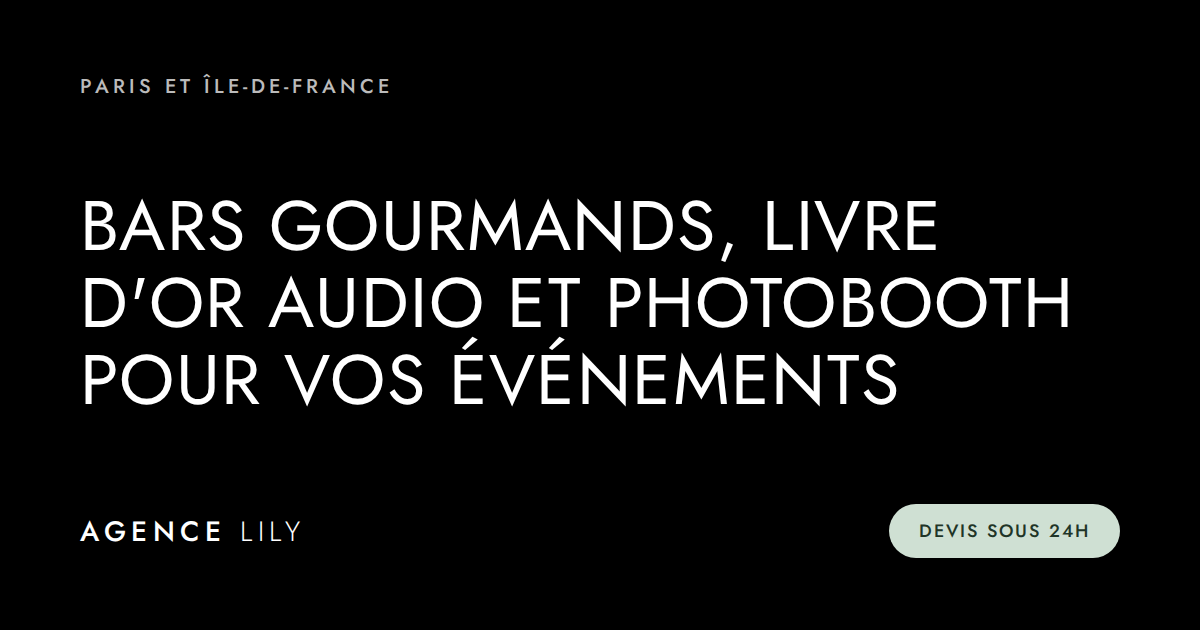
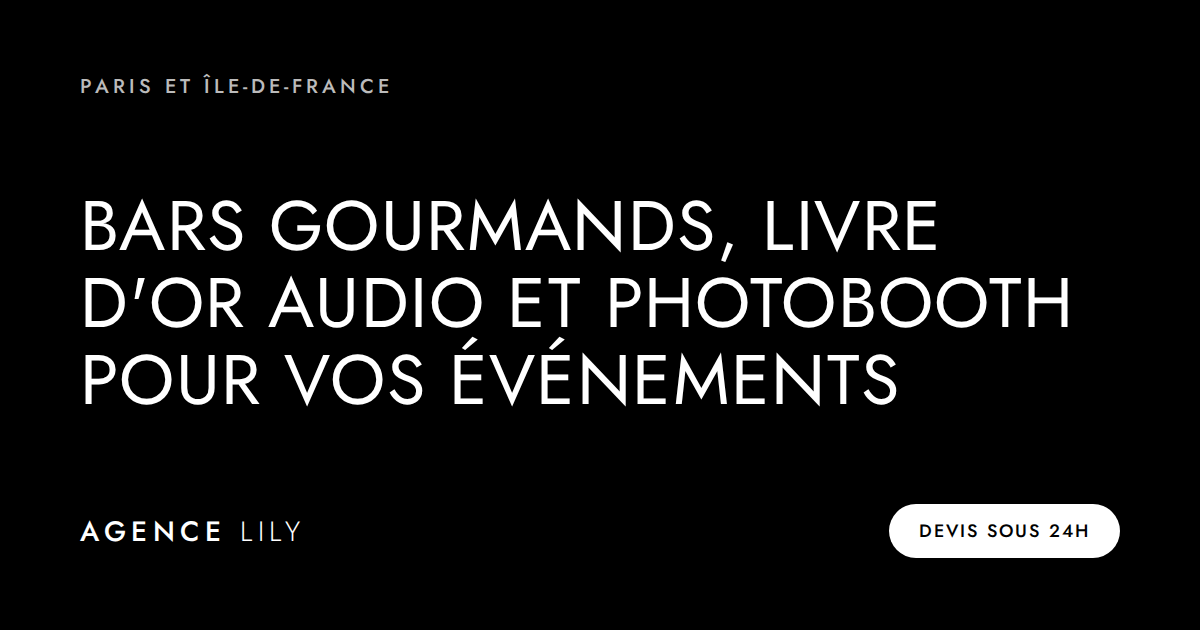
Design noir et blanc, hero mobile, carrousels mobiles et section arche lumineuse
- Suppression du vert sauge : boutons noirs pleins, blancs sur fond sombre
- Hero mobile plus court, image verticale dédiée (imageMobile), prix et bouton en premier
- Formules, étapes et exemples en carrousel horizontal sur mobile, tuiles en 2 x 2
- Section « Notre signature » : téléphone vintage dans son arche lumineuse
- Image de partage régénérée, DESIGN.md mis à jour

Claude-Session: https://claude.ai/code/session_01TGQ6vujkog42Ue361diYv1

Changed region(s): [[0.74, 0.7841, 0.9558, 0.9048]]

diff --git a/src/assets/style.css b/src/assets/style.css
@@ -6,8 +6,6 @@
   --ink: #111111;
   --muted: #6e6e6a;
   --black: #000000;
-  --sage: #cfe0d3;
-  --sage-ink: #1f3527;
   --font: "Jost", "Futura", "Century Gothic", system-ui, sans-serif;
   --s1: 4px; --s2: 8px; --s3: 12px; --s4: 16px; --s5: 24px; --s6: 32px; --s7: 48px; --s8: 72px; --s9: 112px;
   --wrap: 1200px;
@@ -42,7 +40,8 @@ h3 { font-size: 15px; font-weight: 500; letter-spacing: 0.06em; }
 /* Boutons */
 .btn { display: inline-flex; align-items: center; justify-content: center; gap: 8px; padding: 12px 24px; border-radius: var(--pill); background: var(--ink); color: var(--white); border: 1px solid var(--ink); font-family: var(--font); font-size: 12px; font-weight: 500; letter-spacing: .1em; text-transform: uppercase; text-decoration: none; cursor: pointer; transition: opacity .2s; white-space: nowrap; }
 .btn:hover { opacity: .8; }
-.btn.sage { background: var(--sage); color: var(--sage-ink); border-color: var(--sage); }
+/* Action principale : noir plein, plus grand. Sur fond sombre (header, pack, bandeaux), blanc plein. */
+.btn.primary { background: var(--black); color: var(--white); border-color: var(--black); padding: 14px 28px; font-weight: 600; }
 .btn.ghost { background: var(--white); color: var(--ink); border-color: var(--line); }
 .btn.light { background: var(--white); color: var(--ink); border-color: var(--white); }
 .btn.small { padding: 9px 18px; font-size: 11px; }
@@ -56,7 +55,7 @@ h3 { font-size: 15px; font-weight: 500; letter-spacing: 0.06em; }
 .nav { display: flex; align-items: center; gap: var(--s5); }
 .nav a { text-decoration: none; font-size: 11px; font-weight: 500; letter-spacing: .12em; text-transform: uppercase; color: rgba(255,255,255,.75); }
 .nav a:hover, .nav a[aria-current="page"] { color: var(--white); }
-.nav .btn { color: var(--sage-ink); background: var(--sage); border-color: var(--sage); }
+.nav .btn { color: var(--black); background: var(--white); border-color: var(--white); }
 .burger { display: none; }
 @media (max-width: 960px) {
   .burger { display: block; }
@@ -74,7 +73,15 @@ h3 { font-size: 15px; font-weight: 500; letter-spacing: 0.06em; }
 .hero-full .wrap { width: 100%; padding-bottom: var(--s7); }
 .hero-full .eyebrow { color: rgba(255,255,255,.8); }
 .hero-full h1 { margin: 0; max-width: 900px; }
-@media (max-width: 700px) { .hero-full { min-height: 72vh; } }
+@media (max-width: 700px) {
+  .hero-full { min-height: 58vh; }
+  .hero-full h1 { font-size: 30px; }
+  .hero-full .wrap { padding-bottom: var(--s6); }
+  /* Mobile : prix et bouton d'abord, texte ensuite */
+  .intro-band { padding: var(--s6) 0; }
+  .intro-aside { order: -1; }
+}
+.hero-full picture { position: absolute; inset: 0; z-index: -2; }
 .intro-band { background: var(--surface); padding: var(--s7) 0; }
 .intro-band .wrap { display: grid; grid-template-columns: 1.4fr 1fr; gap: var(--s7); align-items: center; }
 .intro-band .lede { margin: 0; }
@@ -169,7 +176,7 @@ a.card:hover .ph img { transform: scale(1.03); }
 .formules { display: grid; grid-template-columns: repeat(auto-fit, minmax(260px, 1fr)); gap: var(--s5); }
 .formule { background: var(--white); padding: var(--s5) var(--s5) var(--s6); position: relative; display: flex; flex-direction: column; }
 .formule.pop { outline: 1px solid var(--ink); outline-offset: -1px; }
-.formule .badge { position: absolute; top: var(--s4); right: var(--s4); z-index: 2; background: var(--sage); color: var(--sage-ink); font-size: 10px; font-weight: 500; letter-spacing: .12em; text-transform: uppercase; padding: 5px 12px; border-radius: var(--pill); }
+.formule .badge { position: absolute; top: var(--s4); right: var(--s4); z-index: 2; background: var(--black); color: var(--white); font-size: 10px; font-weight: 500; letter-spacing: .12em; text-transform: uppercase; padding: 5px 12px; border-radius: var(--pill); }
 .formule .amount { font-size: 34px; font-weight: 300; margin: var(--s2) 0 var(--s5); }
 .formule-visual { margin: calc(-1 * var(--s5)) calc(-1 * var(--s5)) var(--s5); }
 .formule-visual .ph { aspect-ratio: 1 / 1; }
@@ -184,7 +191,7 @@ a.card:hover .ph img { transform: scale(1.03); }
 .pack { background: var(--black); color: var(--white); padding: var(--s7); display: grid; grid-template-columns: 1.4fr 1fr; gap: var(--s6); align-items: center; }
 .pack h2 { color: var(--white); }
 .pack .eyebrow, .pack p { color: rgba(255,255,255,.7); }
-.pack .btn { background: var(--sage); color: var(--sage-ink); border-color: var(--sage); }
+.pack .btn, .quote-band .btn { background: var(--white); color: var(--black); border-color: var(--white); }
 .pack .amount { font-size: 44px; font-weight: 300; }
 .pack s { color: rgba(255,255,255,.5); font-size: 22px; margin-right: 12px; }
 @media (max-width: 760px) { .pack { grid-template-columns: 1fr; padding: var(--s6) var(--s5); } }
@@ -244,7 +251,7 @@ a.card:hover .ph img { transform: scale(1.03); }
 @media (max-width: 760px) {
   .contact-bar { position: fixed; left: 0; right: 0; bottom: 0; z-index: 60; display: flex; gap: var(--s2); padding: 10px 12px calc(10px + env(safe-area-inset-bottom)); background: var(--black); }
   .cb-btn { flex: 1; text-align: center; padding: 12px 8px; border-radius: var(--pill); border: 1px solid rgba(255,255,255,.35); color: var(--white); font-size: 11px; font-weight: 500; letter-spacing: .1em; text-transform: uppercase; text-decoration: none; }
-  .cb-btn.cb-main { background: var(--sage); color: var(--sage-ink); border-color: var(--sage); }
+  .cb-btn.cb-main { background: var(--white); color: var(--black); border-color: var(--white); font-weight: 600; }
   body { padding-bottom: 72px; }
 }
 .wa-float { position: fixed; right: 20px; bottom: 20px; z-index: 60; width: 54px; height: 54px; border-radius: 50%; display: grid; place-items: center; background: var(--black); color: var(--white); }
@@ -292,3 +299,28 @@ a.card:hover .ph img { transform: scale(1.03); }
 .prose th { font-size: 11px; text-transform: uppercase; letter-spacing: .1em; color: var(--muted); font-weight: 500; }
 .prose blockquote { margin: var(--s5) 0; padding: var(--s5); background: var(--surface); }
 .section:not(.alt) .formule { background: var(--surface); }
+
+/* Carrousel mobile : une grille devient un défilement horizontal */
+@media (max-width: 700px) {
+  .m-rail, .formules { display: grid; grid-auto-flow: column; grid-template-columns: none; grid-auto-columns: 84%; gap: var(--s4); overflow-x: auto; scroll-snap-type: x mandatory; padding-bottom: var(--s3); margin-right: -20px; padding-right: 20px; }
+  .m-rail > *, .formules > * { scroll-snap-align: start; }
+  .formule-visual .ph { aspect-ratio: 3 / 2; }
+  .steps.m-rail { grid-auto-columns: 72%; }
+}
+.rail-hint { display: none; font-size: 11px; letter-spacing: .12em; text-transform: uppercase; color: var(--muted); margin-top: var(--s2); }
+@media (max-width: 700px) { .rail-hint { display: block; } }
+
+/* Section produit mise en avant (totem) */
+.feature.feature-dark { background: var(--black); color: var(--white); }
+.feature-dark .eyebrow, .feature-dark p { color: rgba(255,255,255,.75); }
+.feature-dark h2 { color: var(--white); }
+.feature-dark .check li::before { background: var(--white); }
+.feature-dark .btn { background: var(--white); color: var(--black); border-color: var(--white); }
+.feature .ph.tall { aspect-ratio: 4 / 5; min-height: 0; }
+
+/* Tuiles en 2 x 2 sur mobile (au lieu d'être empilées) */
+@media (max-width: 700px) {
+  .tiles { grid-template-columns: 1fr 1fr; gap: var(--s3); }
+  .tile, .tile:first-child { grid-column: auto; aspect-ratio: 1 / 1; }
+  .tile-title { font-size: 16px; padding: 0 var(--s3) var(--s3); }
+}

diff --git a/DESIGN.md b/DESIGN.md
@@ -9,7 +9,7 @@ Toutes les valeurs vivent dans `src/assets/style.css` (bloc `:root`). Ne jamais 
 2. **Angles droits partout**, sauf les boutons et les pastilles, toujours en pilule.
 3. **Capitales pour les titres**, bas de casse pour le texte courant.
 4. **Pas d'ombres.** La hiérarchie se fait par les fonds (blanc / gris clair / noir) et l'espace.
-5. **Une seule couleur d'accent**, le sauge, réservée à l'action principale d'une section (demande de devis).
+5. **Noir et blanc uniquement.** Aucune couleur d'accent : la hiérarchie vient du contraste, de la taille et de l'espace. L'action principale est un bouton noir plein (blanc plein sur fond sombre).
 6. **Les prix restent visibles** : c'est la différence avec un palace. Luxe accessible, pas luxe inaccessible.
 
 ## 2. Couleurs
@@ -22,8 +22,6 @@ Toutes les valeurs vivent dans `src/assets/style.css` (bloc `:root`). Ne jamais 
 | `--ink` | `#111111` | Texte principal, boutons principaux |
 | `--muted` | `#6e6e6a` | Texte secondaire |
 | `--black` | `#000000` | Header, footer, bandeaux sombres |
-| `--sage` | `#cfe0d3` | Bouton d'action principale (devis) |
-| `--sage-ink` | `#1f3527` | Texte sur fond sauge |
 
 ## 3. Typographie
 Une seule famille : **Jost** (géométrique, auto-hébergée dans `src/assets/fonts/`).
@@ -53,7 +51,9 @@ Une seule famille : **Jost** (géométrique, auto-hébergée dans `src/assets/fo
 
 ## 6. Composants
 
-**Hero plein cadre** (`partials/hero-full.njk`) : photo pleine largeur, dégradé sombre en bas, H1 en capitales blanches en bas à gauche. Juste dessous, un **bandeau d'intro** gris : texte d'intro à gauche, prix / contact / bouton à droite.
+**Hero plein cadre** (`partials/hero-full.njk`) : photo pleine largeur, dégradé sombre en bas, H1 en capitales blanches en bas à gauche. Juste dessous, un **bandeau d'intro** gris : texte d'intro à gauche, prix / contact / bouton à droite. Sur mobile : image verticale dédiée (`heroImgMobile`, 4:5), hero plus court, prix et bouton affichés avant le texte.
+
+**Carrousel mobile** (`.m-rail`) : sur mobile, une grille (formules, exemples, étapes) devient un défilement horizontal pour raccourcir la page.
 
 **Carte** (`.card`) : photo en haut (ratio 3:2), corps gris `--surface`, surtitre, titre en capitales, texte gris, puis une ligne prix à gauche + bouton pilule noir à droite.
 
@@ -61,13 +61,13 @@ Une seule famille : **Jost** (géométrique, auto-hébergée dans `src/assets/fo
 
 **Galerie** (`.gallery`) : mosaïque en colonnes, photos sans marge ni légende.
 
-**Bandeau citation** (`.quote-band`) : photo plein cadre, phrase en capitales blanches, bouton sauge. N'y mettre qu'un vrai avis client ou une promesse de marque, jamais un faux témoignage.
+**Bandeau citation** (`.quote-band`) : photo plein cadre, phrase en capitales blanches, bouton blanc. N'y mettre qu'un vrai avis client ou une promesse de marque, jamais un faux témoignage.
 
-**Encart devis** (`.enquiry`) : bloc gris horizontal, titre en capitales, phrase courte, bouton sauge à droite.
+**Encart devis** (`.enquiry`) : bloc gris horizontal, titre en capitales, phrase courte, bouton noir à droite.
 
 **Boutons**
 - `.btn` : noir, texte blanc. Action standard.
-- `.btn.sage` : sauge, texte vert foncé. Action principale (devis).
+- `.btn.primary` : noir plein, plus grand et plus gras. Action principale (devis). Devient blanc plein sur fond sombre (header, pack, bandeau citation, barre mobile).
 - `.btn.ghost` : blanc, bordure fine. Action secondaire.
 - `.btn.light` : blanc sur fond sombre ou photo.
 
@@ -81,6 +81,6 @@ Une seule famille : **Jost** (géométrique, auto-hébergée dans `src/assets/fo
 ## 8. À ne pas faire
 - Pas d'arrondi sur une photo ou une carte.
 - Pas d'ombre portée.
-- Pas de deuxième couleur d'accent.
+- Aucune couleur : noir, blanc et gris uniquement.
 - Pas de titre de section en bas de casse.
 - Pas de tiret long (—) dans les textes.
